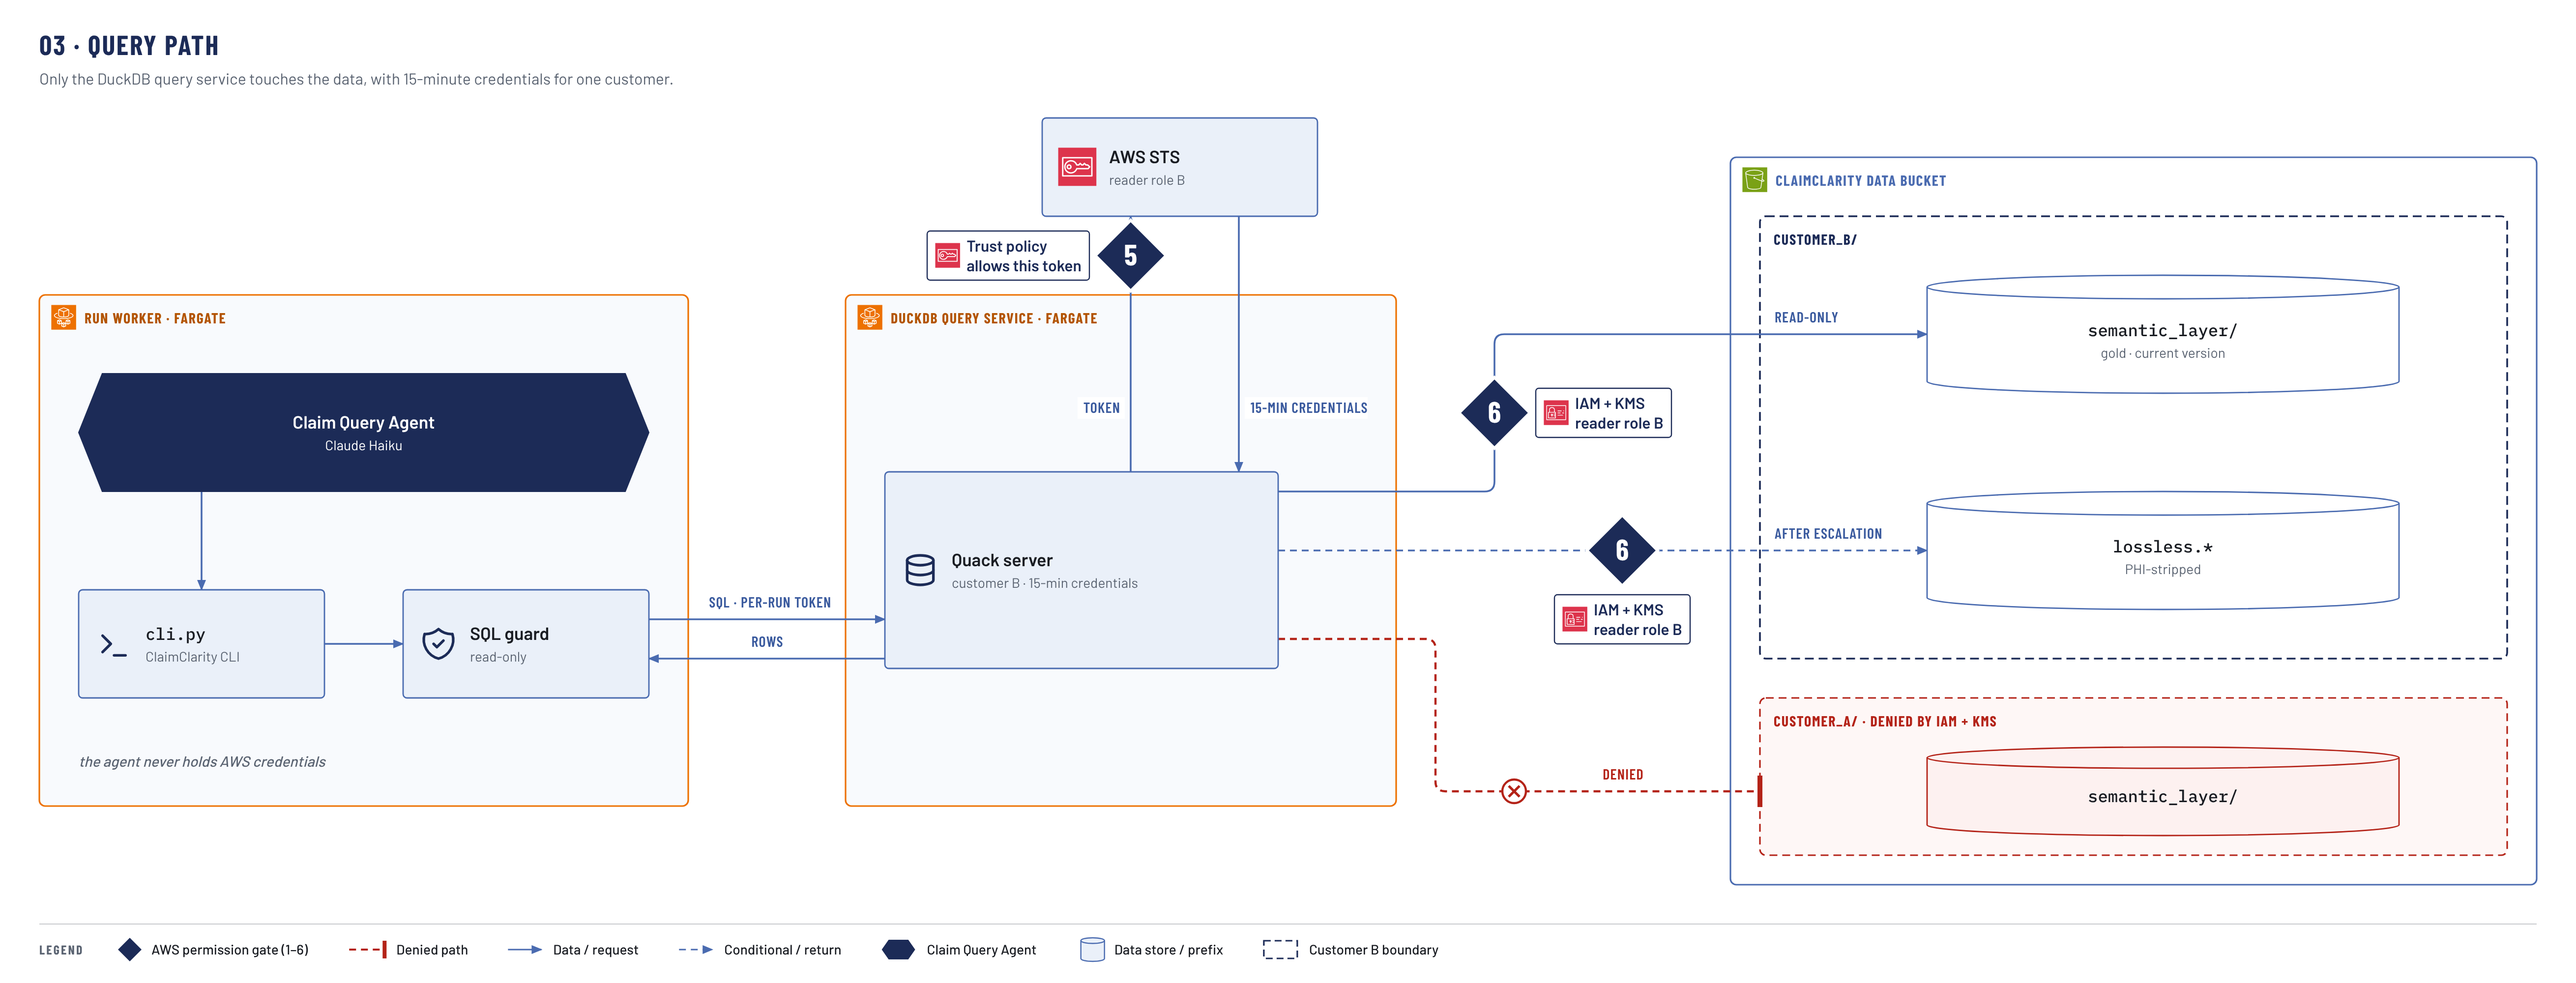
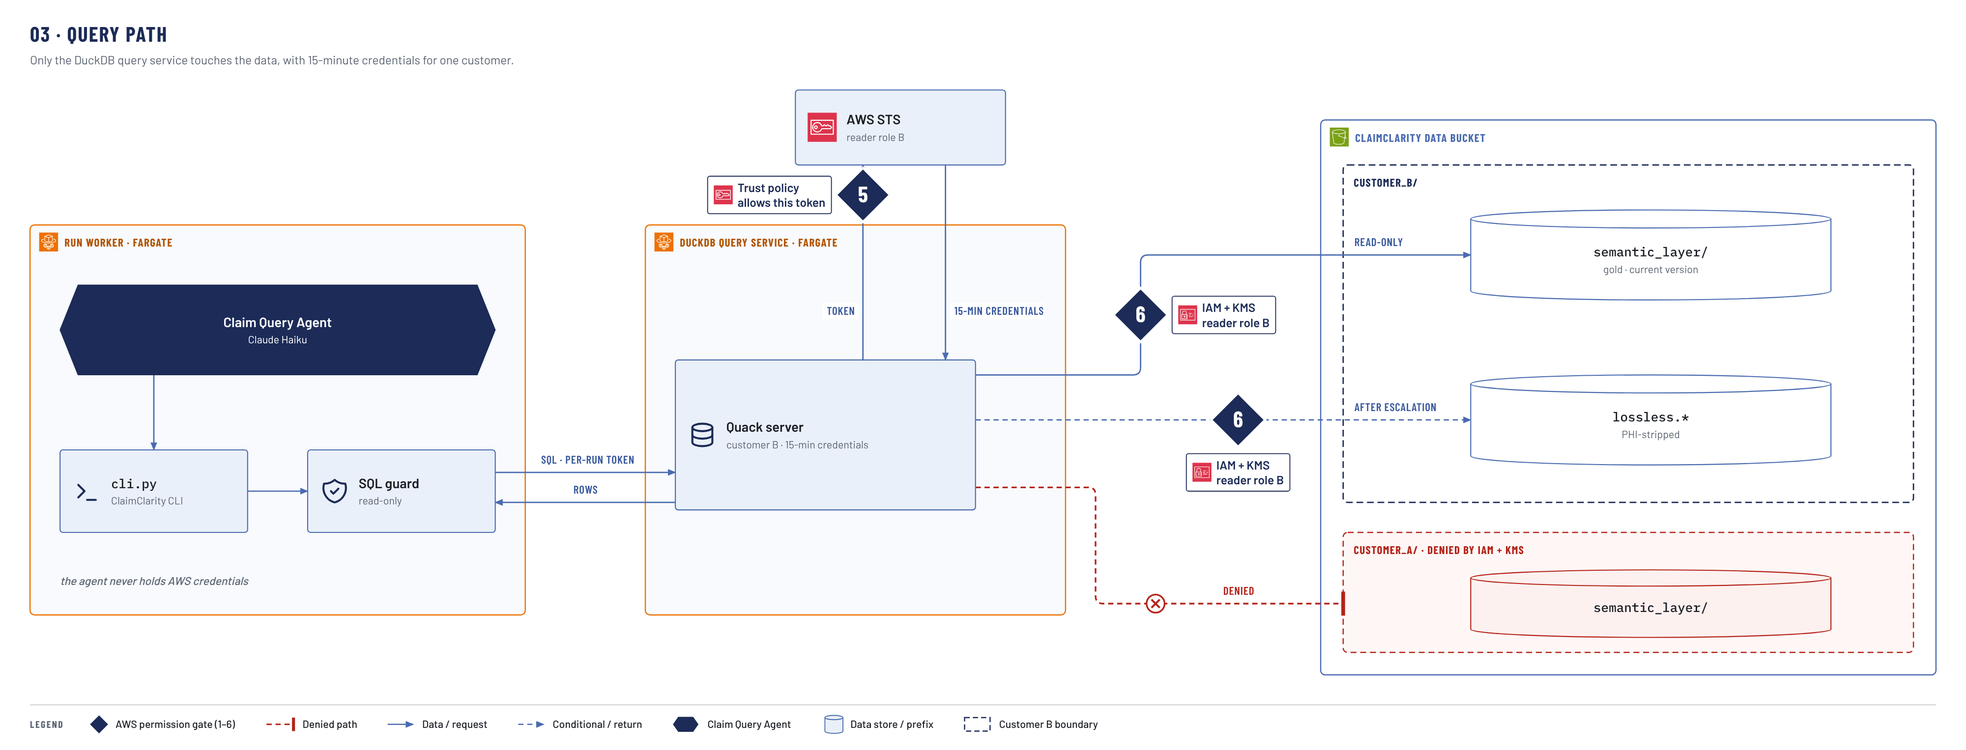
Architecture docs: drill-down redo in progress
Claude-Session: https://claude.ai/code/session_016uF8mxJK8MMFGsujh3CJ5M

diff --git a/docs/architecture/tools/drilldowns.py b/docs/architecture/tools/drilldowns.py
@@ -266,6 +266,17 @@ SKILL = Path(os.environ.get("DIAGRAM_DESIGN", Path.home() / ".claude/skills/diag
 PY = os.environ.get("PYTHON", sys.executable)
 
 
+MAX_PNG = 4000                # longest side of a drill-down PNG; the SVG keeps full detail
+
+
+def cap_png(png):
+    from PIL import Image
+    im = Image.open(png)
+    k = MAX_PNG / max(im.size)
+    if k < 1:
+        im.resize((round(im.width * k), round(im.height * k)), Image.LANCZOS).save(png, optimize=True)
+
+
 def main(which):
     OUT.mkdir(exist_ok=True)
     tmp = Path(tempfile.mkdtemp())
@@ -277,7 +288,9 @@ def main(which):
         html = tmp / f"{d.slug}.html"
         html.write_text(to_html(d, getattr(d, "legend_items", None)))
         subprocess.run([PY, str(SKILL / "export_svg.py"), str(html), str(OUT / f"{d.slug}.svg")], check=True)
-        subprocess.run([PY, str(SKILL / "export_png.py"), str(html), str(OUT / f"{d.slug}.png"), "2"], check=True)
+        png = OUT / f"{d.slug}.png"
+        subprocess.run([PY, str(SKILL / "export_png.py"), str(html), str(png), str(min(2, max(1, MAX_PNG / d.w)))], check=True)
+        cap_png(png)
         print(d.slug)
 
 
